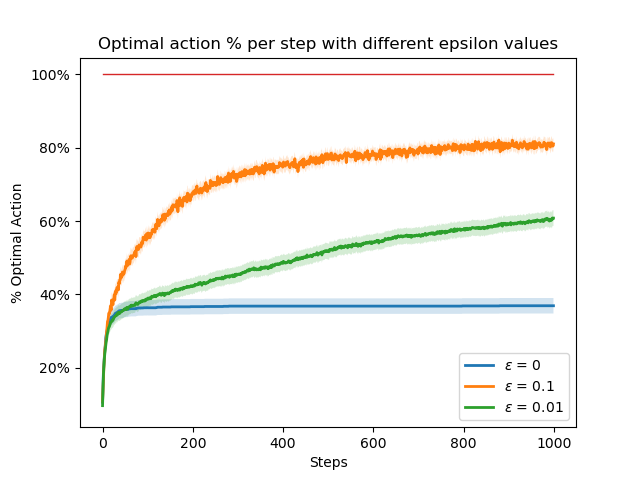
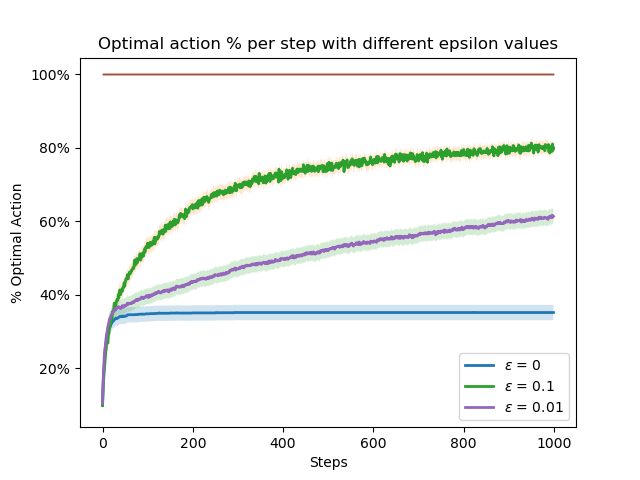
pipeline modified

diff --git a/Ex1/src/main.py b/Ex1/src/main.py
@@ -5,12 +5,13 @@ import matplotlib.ticker as mtick
 import numpy as np
 from Ex1.src.Bandit import Bandit
 from Ex1.src.Action import Action
+from Ex1.src.Params import Params
 
 
 def q4(number_of_arms=10, iterations=100):
     true_values = np.random.normal(0, 1, number_of_arms)
     print(true_values)
-    B = Bandit(0)
+    B = Bandit()
     for i in true_values:
         B.add_action(Action(i, 0, 1))
     arm_rewards = [[] for i in range(number_of_arms)]
@@ -29,87 +30,133 @@ def q4(number_of_arms=10, iterations=100):
     return
 
 
-def run_bandit_trial(B, eps, steps, optimal_curve=False, optimal_action_trial=False):
+def run_bandit_trial(B, eps, steps, stationary=True, optimal_curve_plot=False, sample_average=True, alpha=1):
     trial_rewards = []
+    optimal_rewards = []
     for i in range(steps):
-        if optimal_action_trial:
-            best_action = B.optimal_action
-        else:
-            best_action = B.choose_action(eps)
+        best_action = B.choose_action(eps)
         reward = best_action.play_action()
-        best_action.sample_average_update(reward)
-        if optimal_curve:
+        if sample_average:
+            best_action.exponential_recency_weighted_average(reward, 1/(best_action.occurrence+1))
+        else:
+            best_action.exponential_recency_weighted_average(reward, alpha)
+        if not stationary:
+            B.update()
+        if optimal_curve_plot:
             trial_rewards.append(B.optimal_action == best_action)
+            optimal_rewards.append(1)
         else:
             trial_rewards.append(reward)
-    return trial_rewards
+            optimal_rewards.append(B.optimal_action.true_value)
+    return trial_rewards, optimal_rewards
 
 
-def plot_curve(runs, eps, steps, average_blocks, total_optimal_rewards, optimal_curve=False):
+def plot_curve(runs, param_list, steps, average_blocks, total_optimal_rewards, optimal_curve=False):
     xdata = [x for x in range(steps)]
-    for i in range(len(eps)):
+    for i in range(len(param_list)):
         ydata = np.average(average_blocks[i], axis=0)
         ydata_std = np.std(average_blocks[i], axis=0)
         ydata_std /= np.sqrt(runs)
         ydata_std *= 1.96
-        plt.plot(xdata, ydata, linewidth=2, label=r'$\epsilon$ = ' + str(eps[i]))
+        label_set = ''
+        if param_list[i].alpha == 1:
+            label_set += r'$\epsilon$ = ' + str(param_list[i].epsilon)
+        else:
+            label_set += r'$\epsilon$ = ' + str(param_list[i].epsilon)
+            label_set += r' $\alpha$ = ' + str(param_list[i].alpha)
+        plt.plot(xdata, ydata, linewidth=2, label=label_set)
         plt.fill_between(xdata, np.subtract(ydata, ydata_std), np.add(ydata, ydata_std), alpha=0.2)
-
-    ydata = np.average(total_optimal_rewards, axis=0)
-
+    ydata = np.average(total_optimal_rewards[i], axis=0)
     plt.plot(xdata, ydata, linewidth=1)
+
     if optimal_curve:
         plt.gca().yaxis.set_major_formatter(mtick.PercentFormatter(1))
 
     if optimal_curve:
         plt.ylabel('% Optimal Action')
-        plt.title("Optimal action % per step with different epsilon values")
+        # plt.title("Optimal action % per step with different epsilon values")
     else:
         plt.ylabel('Average reward')
-        plt.title("Average performance of $\epsilon$ greedy method on 10 arm testbed")
+        # plt.title("Average performance of $\epsilon$ greedy method on 10 arm testbed")
     plt.xlabel('Steps')
 
     plt.legend()
     plt.show()
 
 
-def q6(eps, optimal_curve=False, number_of_arms=10, runs=200, steps=1000):
+def experiment(param_list, stationary=True, sample_average=True, optimal_curve_plot=False, number_of_arms=10, runs=200,
+               steps=1000):
     total_rewards = []
     total_optimal_rewards = []
+    optimal_value = 0
     for i in range(runs):
-        true_values = np.random.normal(0, 1, number_of_arms)
+        if not stationary:
+            true_values = [0 for i in range(number_of_arms)]
+        else:
+            true_values = np.random.normal(0, 1, number_of_arms)
         max_value = max(true_values)
+        optimal_value += max_value
         B = Bandit()
         rewards_per_trial = []
+        optimal_rewards_per_trial = []
         for j in true_values:
             if j == max_value:
-                B.add_action(Action(j, 0, 1), True)
+                B.add_action(Action(j, 0), True)
             else:
-                B.add_action(Action(j, 0, 1), False)
-        optimal_rewards = run_bandit_trial(B, 0, steps, optimal_curve, optimal_action_trial=True)
-        total_optimal_rewards.append(optimal_rewards)
-        for epsilon in range(len(eps)):
-            B.reset()
-            rewards_per_eps = run_bandit_trial(B, eps[epsilon], steps, optimal_curve, optimal_action_trial=False)
+                B.add_action(Action(j, 0), False)
+        for params in range(len(param_list)):
+            B.reset(true_values, param_list[params].initial_values)
+            rewards_per_eps, optimal_rewards_per_eps = run_bandit_trial(B, param_list[params].epsilon, steps, stationary,
+                                                                        optimal_curve_plot, sample_average, param_list[params].alpha)
             rewards_per_trial.append(rewards_per_eps)
+            optimal_rewards_per_trial.append(optimal_rewards_per_eps)
         total_rewards.append(rewards_per_trial)
+        total_optimal_rewards.append(optimal_rewards_per_trial)
 
     average_blocks = []
-    for i in range(len(eps)):
+    average_optimal_blocks = []
+    for i in range(len(param_list)):
         eps_block = []
+        eps_optimal = []
         for j in range(runs):
             eps_block.append(total_rewards[j][i])
+            eps_optimal.append(total_optimal_rewards[j][i])
         average_blocks.append(eps_block)
+        average_optimal_blocks.append(eps_optimal)
 
-    plot_curve(runs, eps, steps, average_blocks, total_optimal_rewards, optimal_curve)
+    plot_curve(runs, param_list, steps, average_blocks, average_optimal_blocks, optimal_curve_plot)
 
+
+def q6(optimal_curve_plot, number_of_arms, runs, steps):
+    P1 = Params(0, 1, [0 for i in range(number_of_arms)])
+    P2 = Params(0.1, 1, [0 for i in range(number_of_arms)])
+    P3 = Params(0.01, 1, [0 for i in range(number_of_arms)])
+    experiment([P1, P2, P3], True, True, optimal_curve_plot, number_of_arms, runs, steps)
+    plt.show()
+
+
+def q7(optimal_curve_plot, number_of_arms, runs, steps):
+    P1 = Params(0.1, 1, [0 for i in range(number_of_arms)])
+    P2 = Params(0.1, 0.1, [0 for i in range(number_of_arms)])
+    experiment([P1, P2], False, False, optimal_curve_plot, number_of_arms, runs, steps)
+    plt.show()
+
+def q8(optimal_curve_plot, number_of_arms, runs, steps):
+    P1 = Params(0, 1, [5 for i in range(number_of_arms)])
+    P2 = Params(0.1, 1, [0 for i in range(number_of_arms)])
+    P3 = Params(0.1, 1, [5 for i in range(number_of_arms)])
+    P4 = Params(0, 1, [0 for i in range(number_of_arms)])
+    experiment([P1, P2, P3, P4], True, True, optimal_curve_plot, number_of_arms, runs, steps)
+    plt.show()
 
 if __name__ == "__main__":
-    epsilon_list = [0, 0.1, 0.01]
     number_of_arms = 10
     runs = 2000
-    step = 1000
-    optimal_curve = True
-    # q4(10,10000)
-    q6(epsilon_list, optimal_curve, number_of_arms, runs, step)
+    steps = 1000
+    optimal_curve_plot = True
+    sample_average_method = True
+    # q4(10,1000)
+    # q6(optimal_curve_plot, number_of_arms, runs, steps)
+    # q7(optimal_curve_plot, number_of_arms, runs, steps)
+    q8(optimal_curve_plot, number_of_arms, runs, steps)
     # q2(0.01)

diff --git a/Ex1/src/Action.py b/Ex1/src/Action.py
@@ -2,18 +2,18 @@ import numpy as np
 
 
 class Action:
-    def __init__(self, value, initial_value, alpha):
+    def __init__(self, value, initial_value):
         self.true_value = value
         self.occurrence = 0
         self.current_value = initial_value
-        self.alpha = alpha
 
     def play_action(self):
         return self.true_value + np.random.normal()
 
-    def sample_average_update(self, reward):
-        self.occurrence += 1
-        self.current_value += (reward - self.current_value) / self.occurrence
+    # def sample_average_update(self, reward):
+    #     self.occurrence += 1
+    #     self.current_value += (reward - self.current_value) / self.occurrence
 
-    def exponential_recency_weighted_average(self, reward):
-        self.current_value = self.current_value + self.alpha(reward - self.current_value)
+    def exponential_recency_weighted_average(self, reward, alpha):
+        self.occurrence += 1
+        self.current_value = self.current_value + alpha*(reward - self.current_value)

diff --git a/Ex1/src/Bandit.py b/Ex1/src/Bandit.py
@@ -7,10 +7,19 @@ class Bandit:
         self.actions = []
         self.optimal_action = 0
 
-    def reset(self):
+    def reset(self, true_values, initial_values):
+        for i in range(len(true_values)):
+            self.actions[i].current_value = 0
+            self.actions[i].occurrence = 0
+            self.actions[i].true_value = true_values[i]
+            self.actions[i].initial_value = initial_values[i]
+        return
+
+    def update(self):
         for action in self.actions:
-            action.current_value = 0
-            action.occurrence = 0
+            action.true_value += np.random.normal(0, 0.01)
+            if action.true_value > self.optimal_action.true_value:
+                self.optimal_action = action
         return
 
     def add_action(self, action, is_optimal=False):

diff --git a/Ex1/src/Params.py b/Ex1/src/Params.py
@@ -1,0 +1,5 @@
+class Params:
+    def __init__(self, eps, alpha, initial_values):
+        self.epsilon = eps
+        self.alpha = alpha
+        self.initial_values = initial_values
